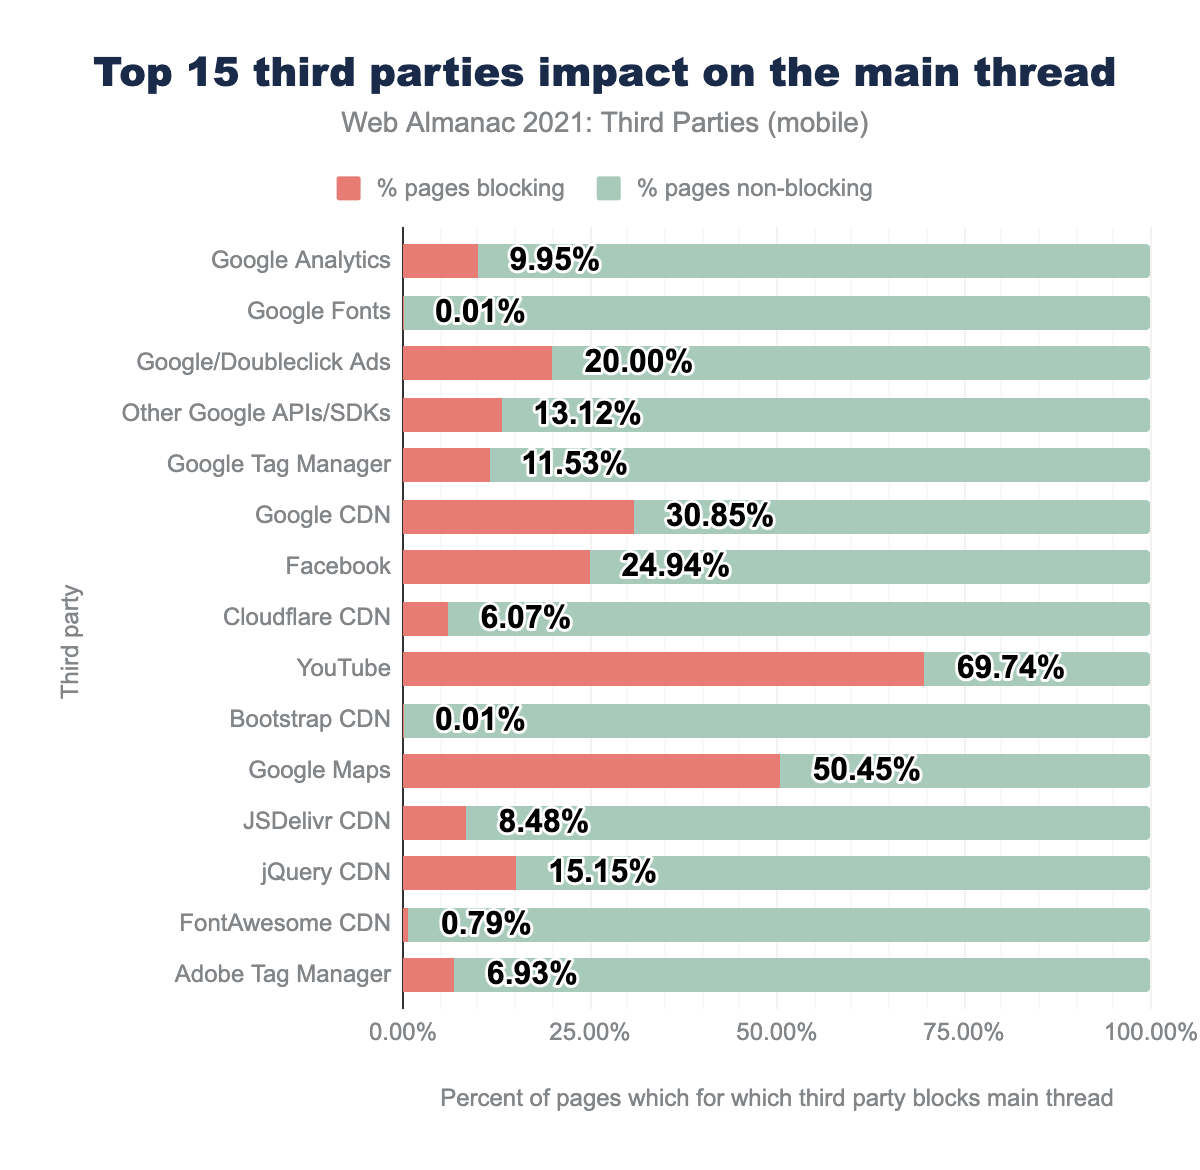
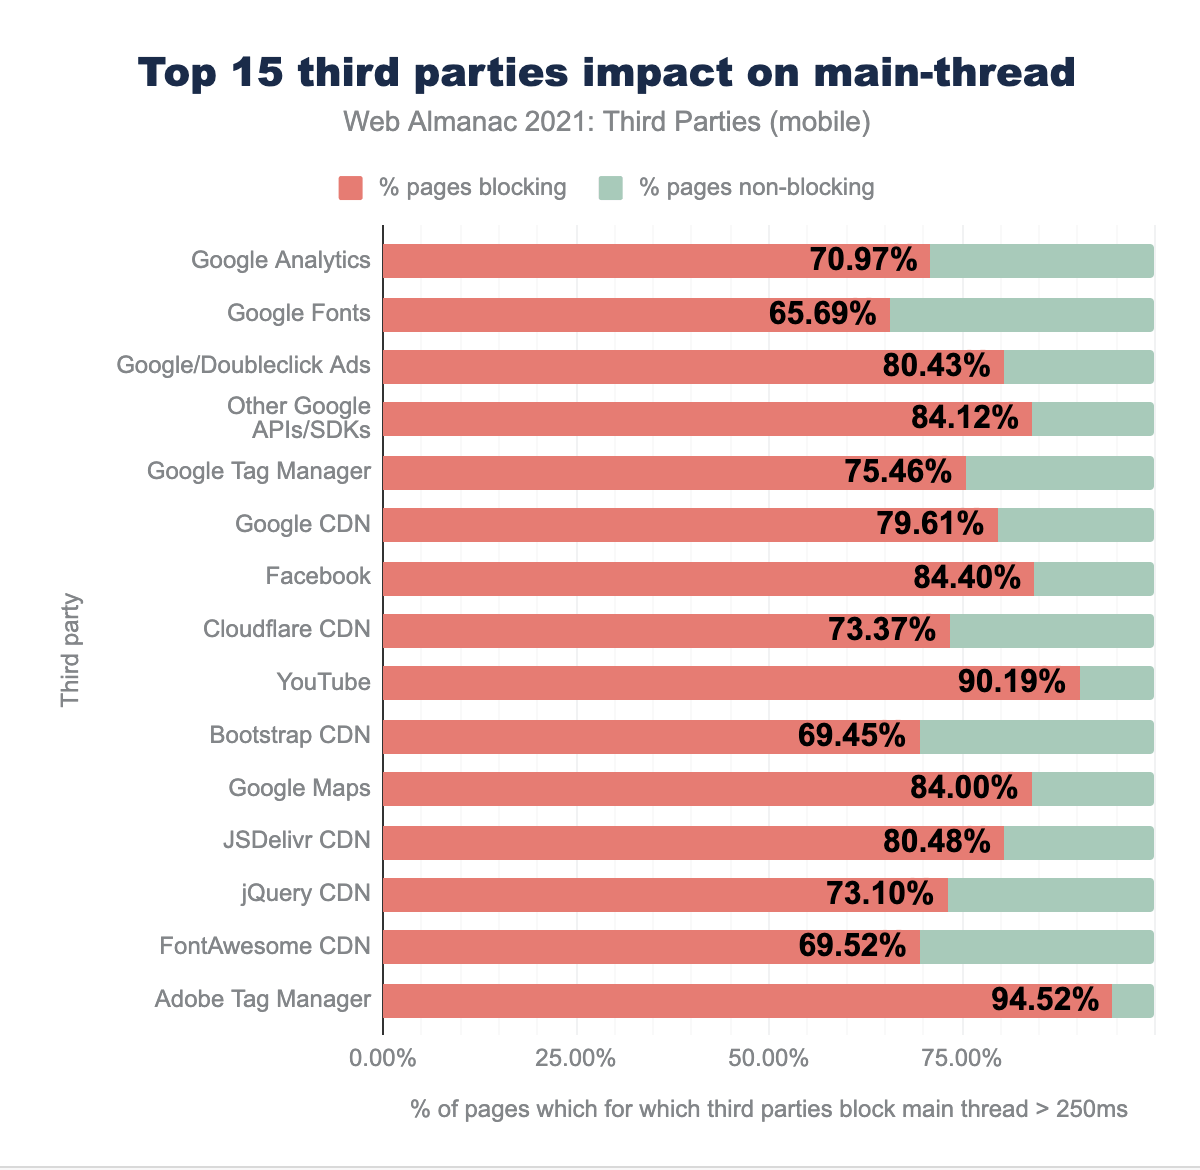
Main thread review feedback

diff --git a/src/content/en/2021/third-parties.md b/src/content/en/2021/third-parties.md
@@ -310,12 +310,12 @@ Often third-party embeds advise using `async` or `defer` with the specific aim o
 
 #### Popular third parties and their impact on main thread
 
-Looking at main-thread blocking, it also doesn't look too bad:
+Lighthouse has a [Reduce the impact of third-party code](https://web.dev/third-party-summary/) audit which checks if all third parties on a page contribute to [more than 250ms of main thread time](https://web.dev/third-party-summary/#how-the-lighthouse-audit-for-third-party-code-fails). Checking the pages which fail this audit, and then the third parties that are used on these failing pages we see the following:
 
 {{ figure_markup(
   image="third-parties-popular-third-parties-main-thread-impact.png",
   caption="Top 15 third parties impact on the main thread.",
-  description="Bar chart showing the percentage of third-party usage which blocks the main thread for the top 15 third parties. Google Analytics is render blocking on 9.95% of pages that used it, Google Fonts is 0.01%, Google/Doubleclick Ads is 20.00%, Other Google APIs/SDKs is 13.12%, Google Tag Manager is 11.53%, Google CDN is 30.85%, Facebook is 24.94%, Cloudflare CDN is 6.07%, YouTube is 69.74%, Bootstrap CDN is 0.01%, Google Maps is 50.45%, JSDelivr CDN is 8.48%, jQuery CDN is 15.15%, FontAwesome CDN is 0.79%, Adobe Tag Manager is 6.93%",
+  description="Bar chart showing the percentage of third-party usage which blocks the main thread for the top 15 third parties. Google Analytics contributes to a main-thread blocking audit fail 70.97% of pages that used it, Google Fonts is 65.69%, Google/DoubleClick Ads is 80.43%, Other Google APIs/SDKs is 80.43%, Google Tag Manager is 84.12%, Google CDN is 79.61%, Facebook is 84.40%, Cloudflare CDN is 73.37%, YouTube is 90.19%, Bootstrap CDN is 69.45%, Google Maps is 84.00%, JSDelivr CDN is 80.48%, jQuery CDN is 73.10%, FontAwesome CDN is 69.52%, Adobe Tag Manager is 94.52%",
 chart_url="https://docs.google.com/spreadsheets/d/e/2PACX-1vTkT-CF5-NB7Oatd6XZq_08EoMGfiygKZtW4OwVivaaW3cIlt3ZcWNBtOdNePD_nKzkvb2nMlhWOX6g/pubchart?oid=1466249466&format=interactive",
   width=600,
   height=585,
@@ -324,7 +324,9 @@ chart_url="https://docs.google.com/spreadsheets/d/e/2PACX-1vTkT-CF5-NB7Oatd6XZq_
   )
 }}
 
-Here blocking is defined as [more than 250 milliseconds of main-thread usage](https://web.dev/third-party-summary/#how-the-lighthouse-audit-for-third-party-code-fails). More important than how often they block the main thread, is how long for?
+That is, for example, 70.97% of websites with Google Analytics fail that audit. That is not to say Google Analytics is to blame for that failure—it may itself be lightweight in CPU terms, but perhaps is often coupled with other, more heavyweight, third parties. Or it could be that every third party is fine by itself, but the combination of them together is what causes the audit to fail.
+
+So, a better measure than how often they contribute to overall main thread blocking, is how long they themselves block the main thread for?
 
 {{ figure_markup(
   image="third-parties-popular-third-parties-main-thread-blocking-time.png",
